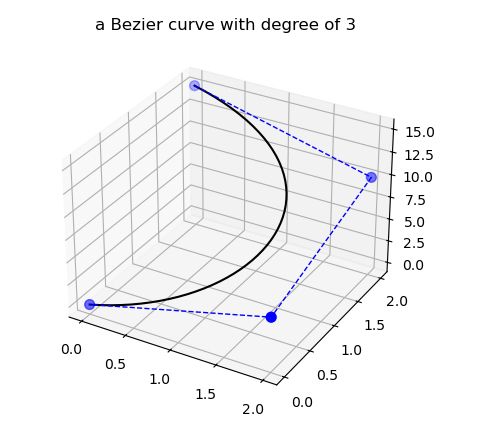
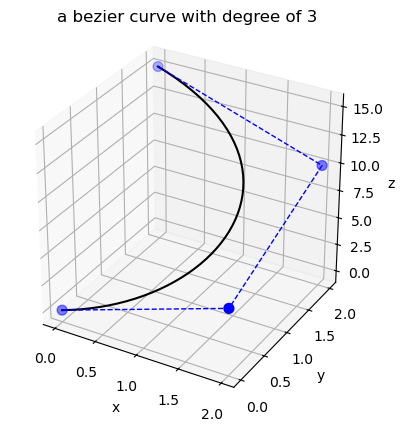
a little change

diff --git a/BezierKit.py b/BezierKit.py
@@ -48,10 +48,10 @@ class bernstein:
 class bezier(bernstein):
     def __init__(self, ctrlpts):
         super().__init__()
-        self.ctrlpts = np.matrix(ctrlpts)
-        self.p = len(ctrlpts)-1
-        self.space = len(ctrlpts[0])
-        self.sampleSize = 50
+        self.ctrlpts = np.matrix(ctrlpts) # the control points
+        self.p = len(ctrlpts)-1 # bezier curve's degree
+        self.dimension = len(ctrlpts[0]) # It is either 3 or 2.
+        self.sampleSize = 50 # default number of interpolation steps
 
 
     # evaluate a bezier curve a single u
@@ -74,11 +74,12 @@ class bezier(bernstein):
 
         return bezierDer
 
+
     # calculate the trace of a bezier curve
     def trace(self):
         step = 1 / (self.sampleSize - 1)
         U = np.arange(0, 1 + step, step)
-        trace = np.zeros((self.sampleSize, self.space))
+        trace = np.zeros((self.sampleSize, self.dimension))
         for i in range(self.sampleSize):
             trace[i, :] = self.evaluate(U[i])
 
@@ -89,7 +90,7 @@ class bezier(bernstein):
     # @a: the lower bound of parameter u \in [0,1]
     # @b: the higher bound of parameter u \in [0,1]
     # @return: the arc length
-    def length(self, a, b):
+    def length(self, a=0, b=1):
         if a<0 and b>1:
             raise ValueError('Interval of U is not within [0, 1]')
 
@@ -101,7 +102,7 @@ class bezier(bernstein):
             u = coef_1 * abscissae[i] + coef_2
             firstDer = self.derivative(u, 1)
             normSquare = 0
-            for j in range(self.space):
+            for j in range(self.dimension):
                 normSquare += firstDer[0, j] ** 2
 
             Len += weights[i] * math.sqrt(normSquare)
@@ -113,7 +114,7 @@ class bezier(bernstein):
     def plot(self):
         trace = self.trace()
         fig = plt.figure()
-        if self.space == 2:
+        if self.dimension == 2:
             x = np.array(self.ctrlpts[:, 0])
             y = np.array(self.ctrlpts[:, 1])
             plt.plot(trace[:, 0], trace[:, 1], color='black')
@@ -122,7 +123,7 @@ class bezier(bernstein):
             plt.xlabel('x')
             plt.ylabel('y')
             plt.axis('equal')
-        elif self.space == 3:
+        elif self.dimension == 3:
             x = np.array(self.ctrlpts[:, 0])
             y = np.array(self.ctrlpts[:, 1])
             z = np.array(self.ctrlpts[:, 2])
@@ -135,7 +136,7 @@ class bezier(bernstein):
             ax.set_zlabel('z')
             ax.set_box_aspect([1.0, 1.0, 1.0])
         else:
-            raise ValueError('bezier.space is neither 2 nor 3!')
+            raise ValueError('bezier.dimension is neither 2 nor 3!')
 
         plt.title(f'a bezier curve with degree of {self.p}')
         plt.show()

diff --git a/demo.py b/demo.py
@@ -2,10 +2,11 @@ import BezierKit
 
 ## sample1: create a bezier curve
 # 3D bezier
-# ctrlpts = ([0, 3, 10], [5, 1, 12], [1, 6, 5], [1, 0, 2])
+ctrlpts = ([0, 2, 15], [2, 2, 10], [2, 0, 5], [0, 0, 0])
 
 # 2D bezier (approximately a circle)
-ctrlpts = ([0, 1.00005519], [0.55342686, 0.99873585], [0.99873585, 0.55342686], [1.00005519, 0])
+# ctrlpts = ([0, 1.00005519], [0.55342686, 0.99873585], [0.99873585, 0.55342686], [1.00005519, 0])
+
 
 # create a bezier
 bezier = BezierKit.bezier(ctrlpts)
@@ -22,9 +23,9 @@ trace = bezier.trace()
 ## sample4: evaluate the curve at single u
 u = 0.23
 pt = bezier.evaluate(u)
-if bezier.space == 3:
+if bezier.dimension == 3:
     print("C(%.2f) = [%.4f, %.4f, %.4f]" % (u, pt[0, 0], pt[0, 1], pt[0, 2]))
-elif bezier.space == 2:
+elif bezier.dimension == 2:
     print("C(%.2f) = [%.4f, %.4f]" % (u, pt[0, 0], pt[0, 1]))
 else:
     raise ValueError('The dimension of ctrlpts is neither 2 nor 3!')
@@ -34,14 +35,16 @@ else:
 order = 5
 for i in range(order + 1):
     der = bezier.derivative(u, i)
-    if bezier.space == 3:
+    if bezier.dimension == 3:
         print("The %d-order derivative of C(%.2f) = [%.4f, %.4f, %.4f]" % (i, u, der[0, 0], der[0, 1], der[0, 2]))
-    elif bezier.space == 2:
+    elif bezier.dimension == 2:
         print("The %d-order derivative of C(%.2f) = [%.4f, %.4f]" % (i, u, der[0, 0], der[0, 1]))
     else:
         raise ValueError("The dimension of ctrlpts is neither 2 nor 3!")
 
 
 ## sample6: calculate the length of the curve
-Len = bezier.length(0,1)
-print("The arc length of the bezier curve is %.10f" % Len)
+Len = bezier.length()
+print("The arc length is %.10f" % Len)
+# The default parameter a and b are 0 and 1. You can adjust them within [0, 1],
+# for example: Len = bezier.length(0.5, 1)

diff --git a/README.md b/README.md
@@ -5,23 +5,28 @@ import BezierKit
 
 ctrlpts = ([0, 2, 15], [2, 2, 10], [2, 0, 5], [0, 0, 0])
 
-bezier = BezierKit.CreateBezier(ctrlpts)
+bezier = BezierKit.bezier(ctrlpts)
 
 ## sample2: plot a bezier
-bezier.Plot()
+bezier.plot()
 
 ![img.png](demoPic.png)
 
 ## sample3: evaluate the curve at single u
 u = 0.1
 
-pt = bezier.Evaluated(u)
+pt = bezier.evaluate(u)
 
 ## sample4: calculate the trace of the bezier
-trace = bezier.Trace()
+trace = bezier.trace()
 
 ## sample5: calculate the order-th derivative of a bezier curve
 order = 2
 
-der = bezier.Derivative(u, order)
+der = bezier.derivative(u, order)
+
+## sample6: calculate the arc length
+Len = bezier.length()
+
+print("The arc length is %.10f" % Len)
 
